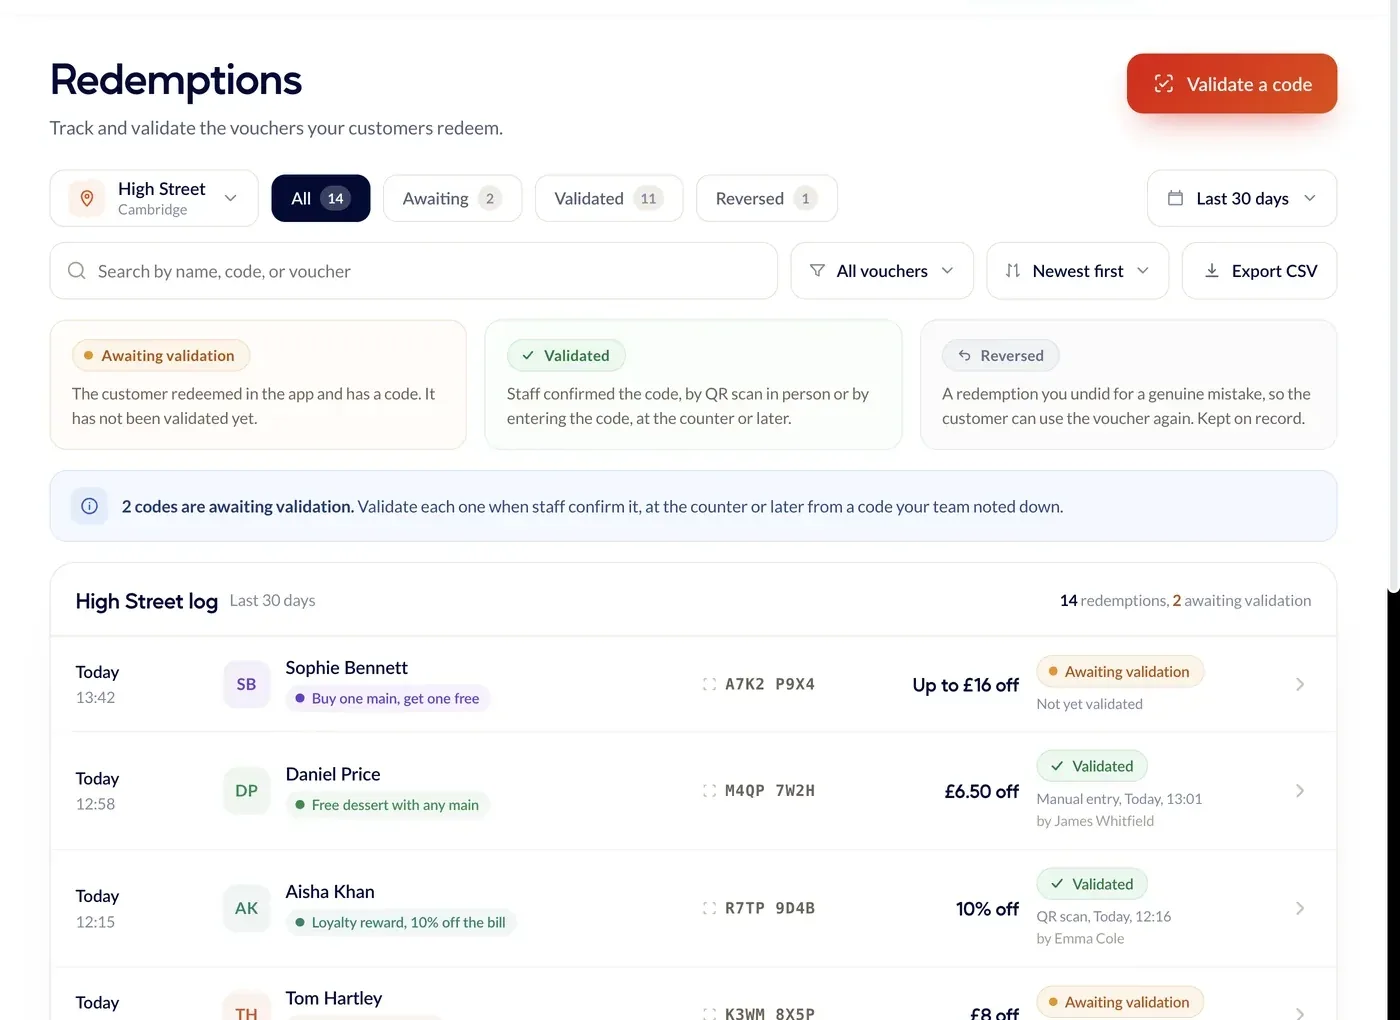
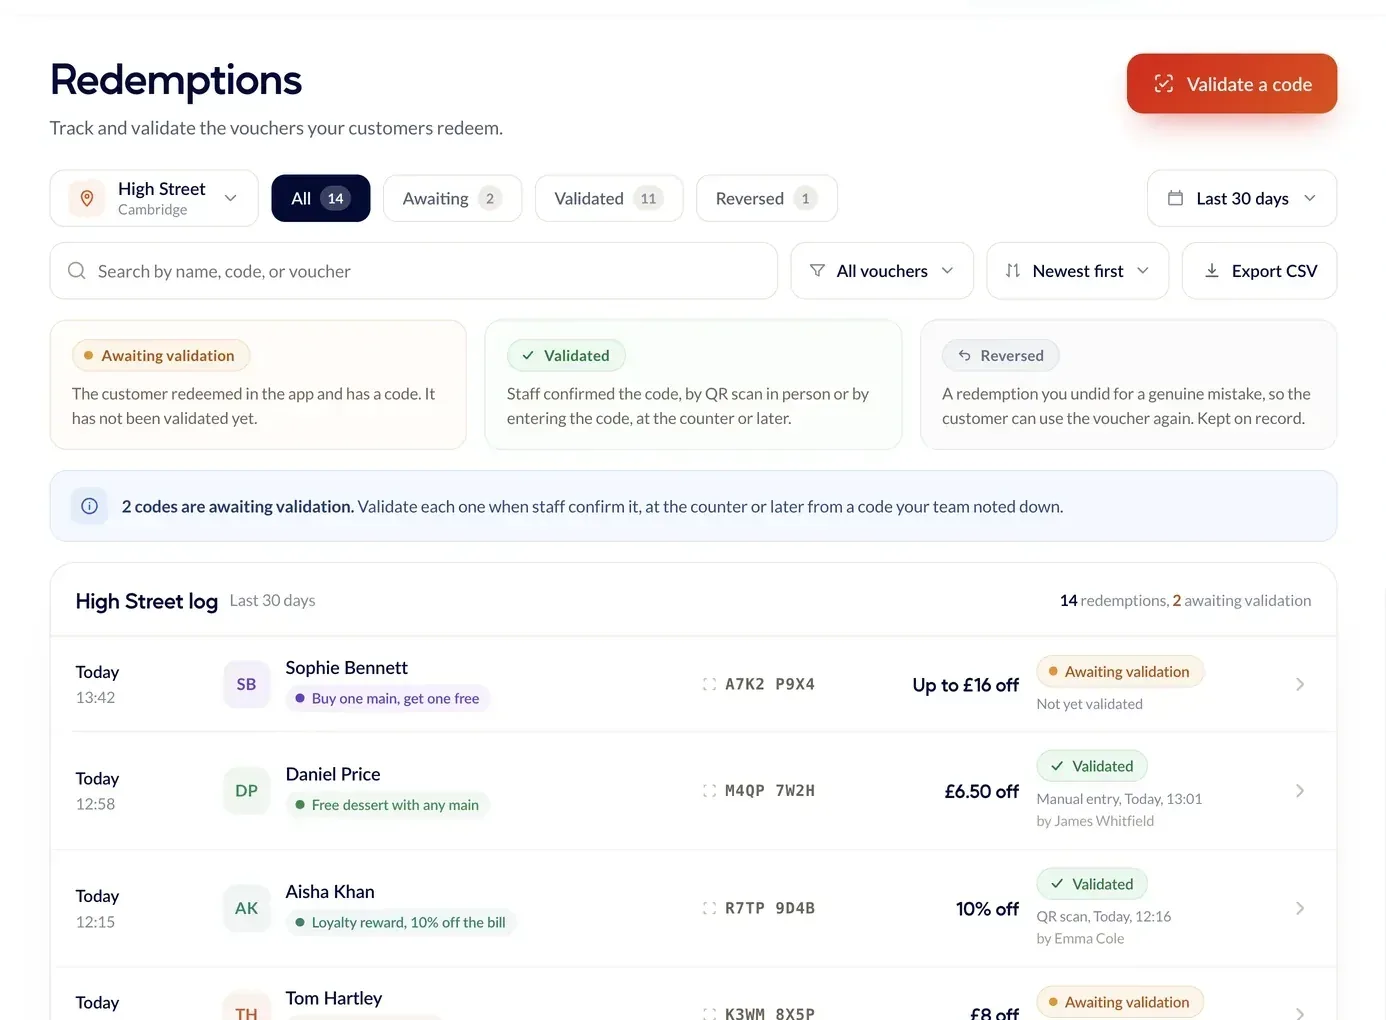
fix(customer-web): Section 4 review fixes: three panes re-cropped to kill the residual scrollbar gutter (ship-blocker), mobile switcher drops the incomplete tab pattern for aria-pressed buttons, validation-toast inner timeout cleared on cleanup, blurb card height headroom, section comment renumbered

diff --git a/apps/customer-web/components/for-businesses/PortalSection.tsx b/apps/customer-web/components/for-businesses/PortalSection.tsx
@@ -300,11 +300,15 @@ function ValidationToast({ active }: { active: boolean }) {
   useEffect(() => {
     if (!active || reduceMotion) return
     setShown(true)
+    let inner: ReturnType<typeof setTimeout> | null = null
     const id = setInterval(() => {
       setShown(false)
-      setTimeout(() => setShown(true), 900)
+      inner = setTimeout(() => setShown(true), 900)
     }, 5600)
-    return () => clearInterval(id)
+    return () => {
+      clearInterval(id)
+      if (inner) clearTimeout(inner)
+    }
   }, [active, reduceMotion])
   return (
     <motion.div
@@ -539,7 +543,7 @@ export function PortalSection() {
           <div className="relative w-[300px] flex-shrink-0">
             <div className="rounded-2xl border border-white/10 bg-[#081130]/70 p-6 backdrop-blur-md" style={{ boxShadow: '0 24px 60px rgba(0,4,20,0.45)' }}>
               <p className="mb-2 text-[11px] font-bold uppercase tracking-[0.16em] text-white/40">{current.nav}</p>
-              <div className="relative min-h-[150px]">
+              <div className="relative min-h-[170px]">
                 {SCREENS.map((screen) => (
                   <motion.div
                     key={screen.key}
@@ -586,14 +590,13 @@ export function PortalSection() {
 
         {/* Mobile / tablet: pill switcher + content-pane window */}
         <div className="mt-10 lg:hidden">
-          <div className="favour-rail -mx-2 flex gap-2 overflow-x-auto px-2 pb-3" style={{ scrollbarWidth: 'none' }} role="tablist" aria-label="Portal screens">
+          <div className="favour-rail -mx-2 flex gap-2 overflow-x-auto px-2 pb-3" style={{ scrollbarWidth: 'none' }} role="group" aria-label="Portal screens">
             {SCREENS.map((screen) => {
               const isActive = screen.key === active
               return (
                 <button
                   key={screen.key}
-                  role="tab"
-                  aria-selected={isActive}
+                  aria-pressed={isActive}
                   onClick={() => setActive(screen.key)}
                   className="flex-shrink-0 rounded-full border px-3.5 py-2 text-[12.5px] font-bold transition-colors"
                   style={{

diff --git a/apps/customer-web/components/for-businesses/ForBusinessesContent.tsx b/apps/customer-web/components/for-businesses/ForBusinessesContent.tsx
@@ -40,7 +40,7 @@ export function ForBusinessesContent() {
       {/* ── 4. The Merchant Portal (Section 4) ── */}
       <PortalSection />
 
-      {/* ── 4. Voucher structure ── */}
+      {/* ── 5. Voucher structure ── */}
       <section className="bg-white py-20 md:py-24 px-6">
         <div className="max-w-5xl mx-auto">
           <motion.div
